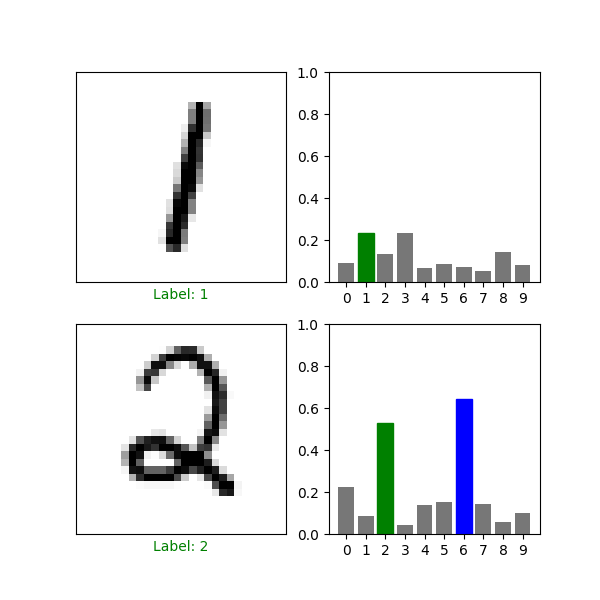
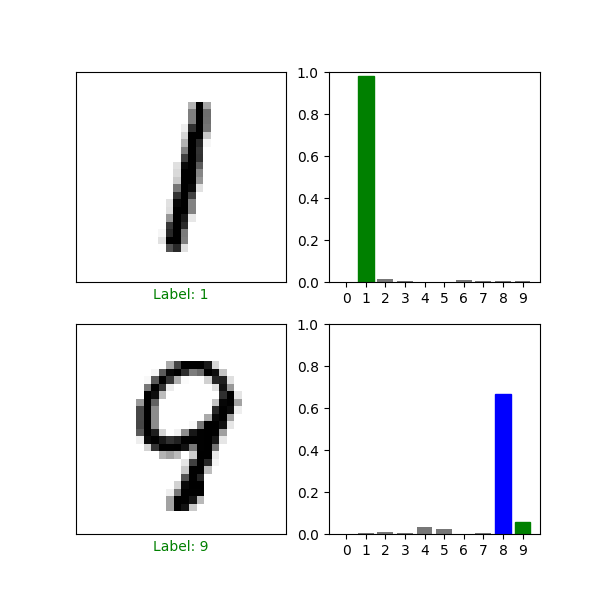
done tests and add plots

diff --git a/NeuralNetwork/src/testing.py b/NeuralNetwork/src/testing.py
@@ -6,7 +6,7 @@ import random
 import time
 from sklearn.metrics import confusion_matrix
 import seaborn as sns
-# from playground import show_confusion_matrix
+
 
 import matplotlib.pyplot as plt
 
@@ -25,6 +25,15 @@ DATA_PERCENTAGE = 10
 
 # error matrix
 # quality metrics
+
+def show_confusion_matrix(matrix, class_list):
+    """Shows plot with confusion matrix """
+    ax = sns.heatmap(matrix, annot=True, fmt="d")
+    ax.set_xlabel('Predicted Values')
+    ax.set_ylabel('Actual Values ')
+    ax.xaxis.set_ticklabels(class_list)
+    ax.yaxis.set_ticklabels(class_list)
+    plt.show()
 
 def show_matrix(predictions: np.ndarray,
                           expectations: np.ndarray):
@@ -124,7 +133,7 @@ def test(
     )
 
     expectations = [row[1] for row in test_data]
-
+    show_matrix(predictions, expectations)
     confusion_matrix = create_confusion_matrix(predictions, expectations)
     metrics = get_metrics(confusion_matrix)
 
@@ -281,12 +290,16 @@ if __name__ == "__main__":
     # )
     # biore 10
     
-    plot(
-        {
-            'hidden_layers_number': 2,
-            'neurons_in_layer_number': 15,
-            'epochs_number': 10,
-            'learning_rate': np.arange(0.01, 0.52, 0.1).tolist()
-        }
-    )
-    # biore 
+    # plot(
+    #     {
+    #         'hidden_layers_number': 2,
+    #         'neurons_in_layer_number': 15,
+    #         'epochs_number': 10,
+    #         'learning_rate': np.arange(0.01, 0.52, 0.1).tolist()
+    #     }
+    # )
+    # biore 0.1
+    
+    cn, metrics = test(2, 15, 10, 0.1)
+    print("ACC: ", metrics["Accuracy"])
+    print("Prec: ", metrics["Precision"])

diff --git a/NeuralNetwork/src/playground.py b/NeuralNetwork/src/playground.py
@@ -4,8 +4,8 @@ import matplotlib.pyplot as plt
 import numpy as np
 import tensorflow as tf
 from sklearn.metrics import precision_score
-
-from testing import test
+from testing import show_matrix
+# from testing import test
 
 class_names = [i for i in range(10)]
 pred = []
@@ -41,15 +41,14 @@ def plot_value_array(i, predictions_array, true_label):
   thisplot[true_label].set_color('blue')
 
 if __name__ == "__main__":
-    testing_data = load_data('data/t10k-images.idx3-ubyte', 'data/t10k-labels.idx1-ubyte')
-    testing_labels = [data[1] for data in testing_data]
     mnist = tf.keras.datasets.mnist
 
     (train_images, train_labels), (test_images, test_labels) = mnist.load_data()
     
     model = tf.keras.Sequential([
         tf.keras.layers.Flatten(input_shape=(28,28)),
-        tf.keras.layers.Dense(10, activation='sigmoid'),
+        tf.keras.layers.Dense(15, activation='sigmoid'),
+        tf.keras.layers.Dense(15, activation='sigmoid'),
         tf.keras.layers.Dense(10)  
     ])
 
@@ -68,8 +67,8 @@ if __name__ == "__main__":
 
     predictions = probability_model.predict(test_images)
     pred = [np.argmax(i) for i in predictions]
-    print(precision_score(testing_labels, pred, labels=class_names, average='micro'))
-    
+    print("Prec: ", precision_score(test_labels, pred, labels=class_names, average='micro'))
+    show_matrix(pred, test_labels)
     i = 0
     plt.figure(figsize=(6,3))
     plt.subplot(1,2,1)

diff --git a/NeuralNetwork/src/example.py b/NeuralNetwork/src/example.py
@@ -6,7 +6,7 @@ import random
 import numpy as np
 import matplotlib.pyplot as plt
 
-DATA_PERCENTAGE = 1
+DATA_PERCENTAGE = 10
 
 class_names = [i for i in range(10)]
 
@@ -39,7 +39,7 @@ def show_example(
     training_data,
     test_data,
     hidden_layers_number=2,
-    neurons_in_layer_number=10,
+    neurons_in_layer_number=15,
     epochs_number=10,
     learning_rate=0.1
 ):

diff --git a/NeuralNetwork/src/neural_network.py b/NeuralNetwork/src/neural_network.py
@@ -65,7 +65,8 @@ class NeuralNetwork:
 
             for neuron in range(neurons_in_layer_number):
                 weights = [
-                    random.uniform(-1, 1)
+                    # random.uniform(-1, 1)
+                    0
                     for weight in range(weights_number)
                 ]
 
